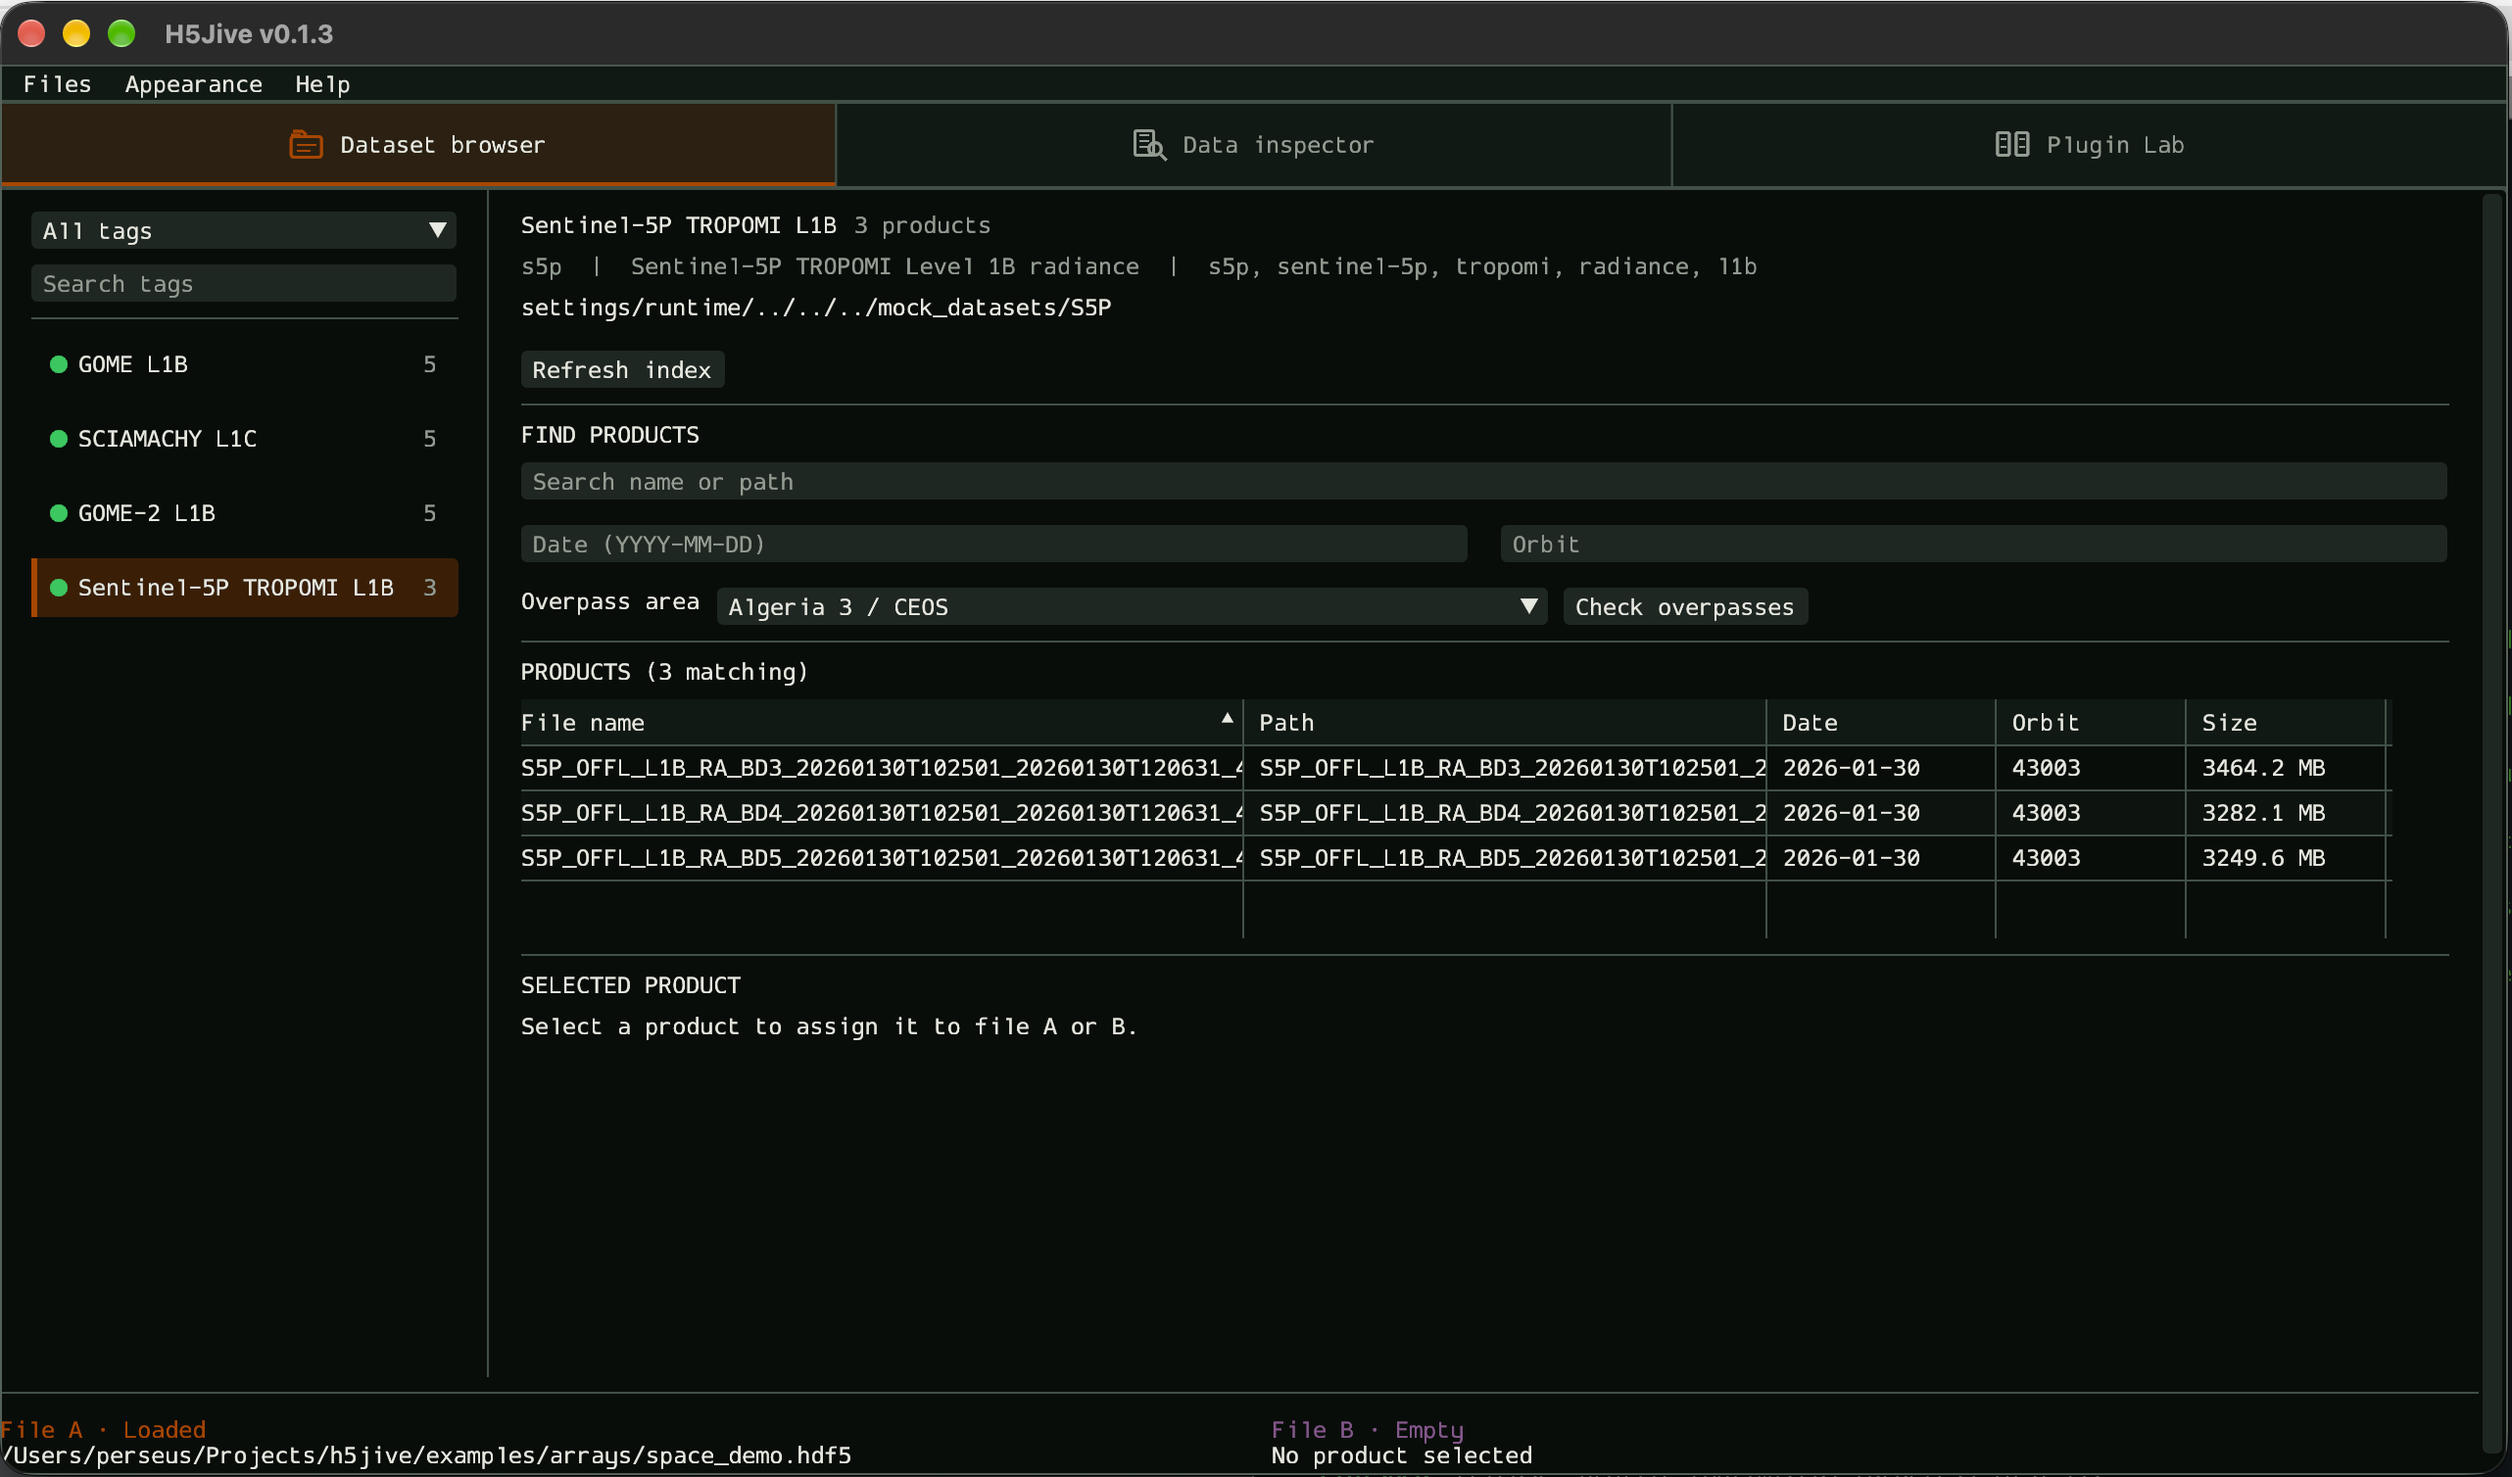
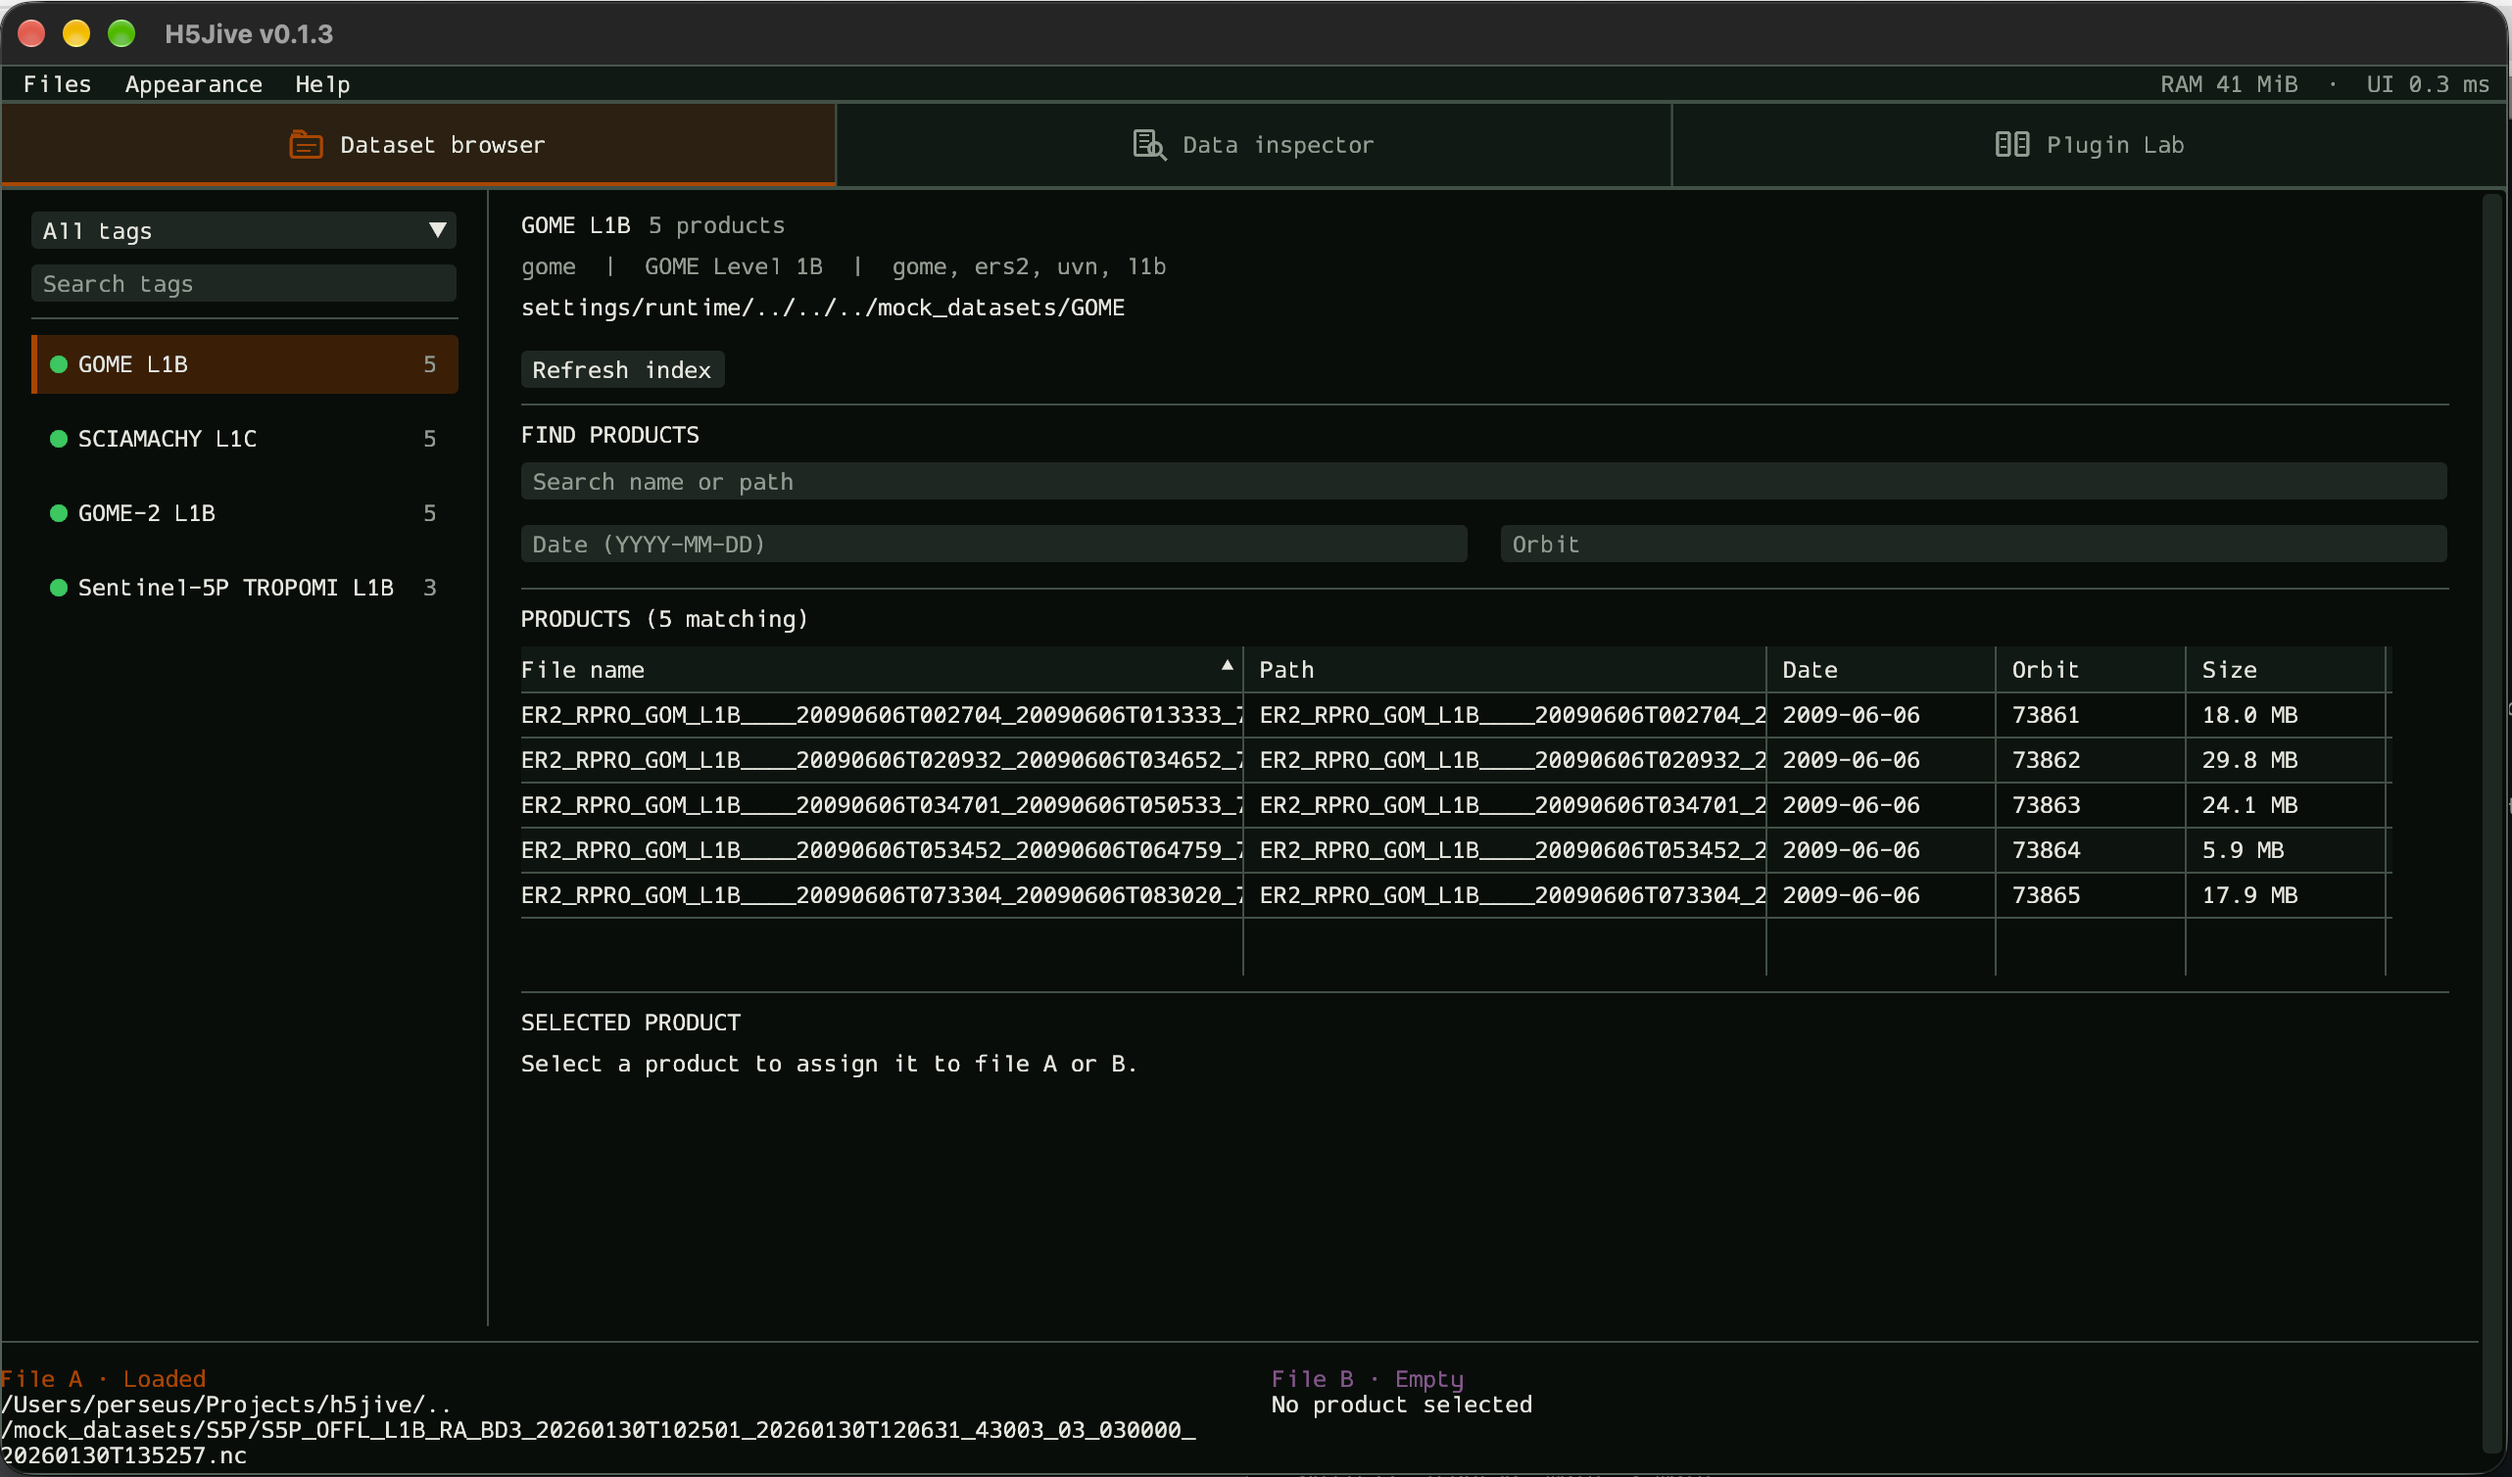
website improvements

diff --git a/website/public/layout.css b/website/public/layout.css
@@ -374,7 +374,7 @@
 
 .browser-details {
   display: grid;
-  grid-template-columns: 1fr 1fr auto;
+  grid-template-columns: 1fr auto;
   align-items: start;
   gap: 28px;
   margin-top: 27px;
@@ -395,8 +395,6 @@
 
 @media (max-width: 900px) {
   .browser-heading { grid-template-columns: 1fr; gap: 20px; }
-  .browser-details { grid-template-columns: 1fr 1fr; }
-  .browser-details .text-link { grid-column: 1 / -1; }
 }
 
 @media (max-width: 620px) {
